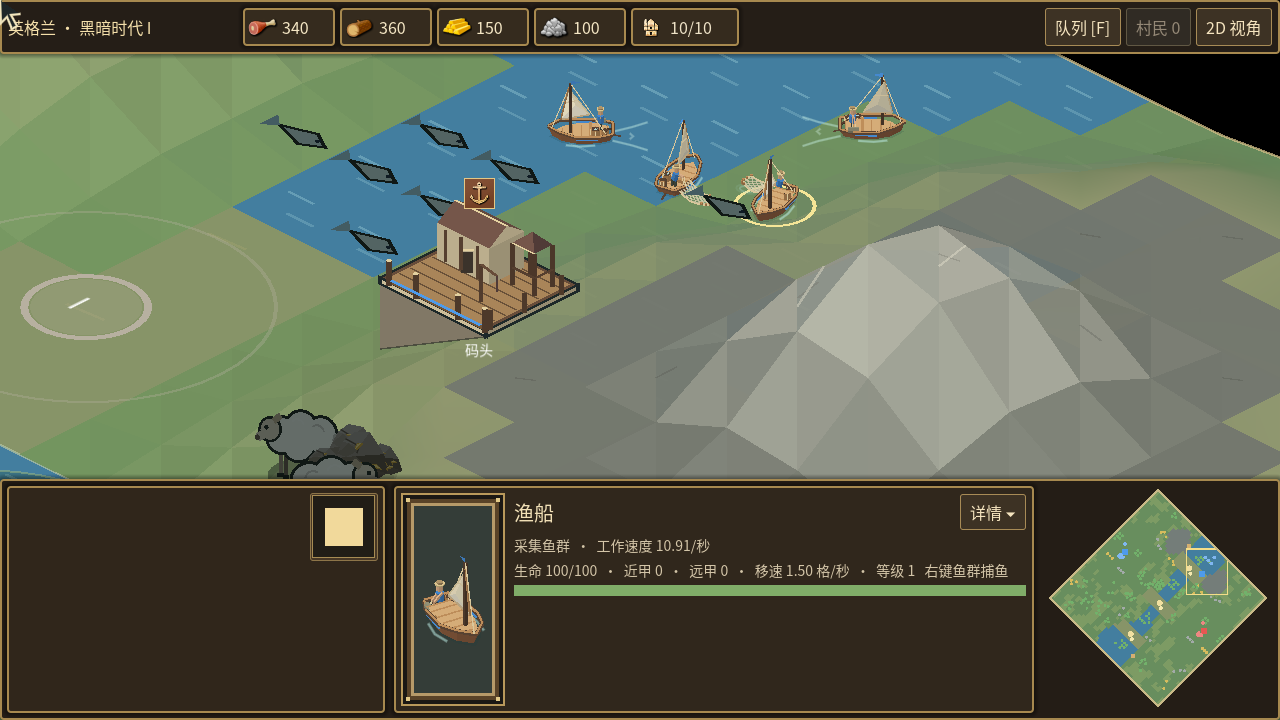
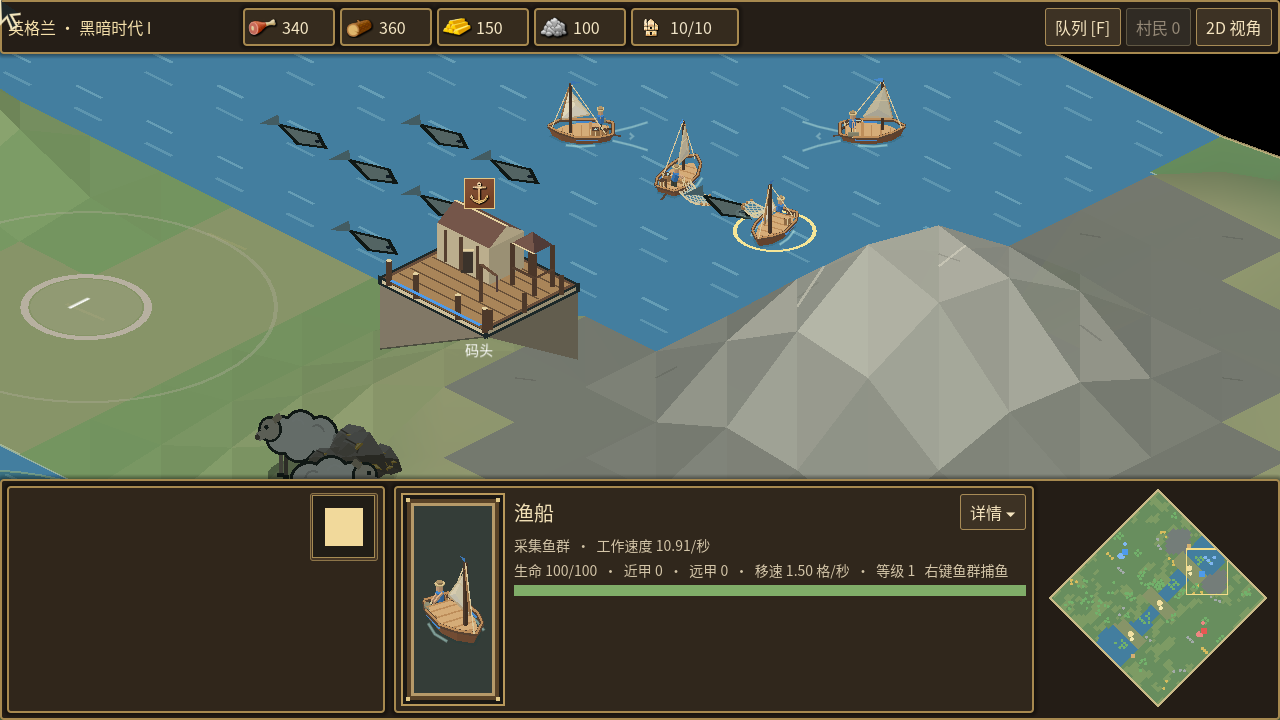
fix: keep mountain-adjacent water flat and preserve water rendering

Changed region(s): [[0.375, 0.1222, 0.9688, 0.5194], [0.0, 0.0611, 0.4062, 0.3056]]

diff --git a/docs/fishing-boat-refinement/README.md b/docs/fishing-boat-refinement/README.md
@@ -13,9 +13,13 @@
 
 捕鱼读取真实采集订单、鱼群余量、距离和工作计时器，短暂的采集动作结束后仍继续捕鱼循环。停船捕鱼时船体侧转，让右舷渔网朝向鱼群；航行方向与导航状态不受影响。袋状渔网使用菱形网格，随循环撒出、浸水、提起和收回，渔夫同时改变手臂姿态。驶向鱼群的船、正在移动的船和资源耗尽的船会收起渔网。头像使用稳定姿态，并按模型范围适配内框；单位预览增加“停泊／航行／捕鱼”和八方向选择。
 
+靠山的水格曾继承山坡高度，并被 2.5D 高地材质绘成草地，造成船和鱼看起来上岸。水格四角现在统一为零高度，邻接岸坡共用这些水线顶点；高地绘制也显式保留水域材质。游戏内截图使用修复后的同一种子和原有船位。
+
 ## 验证
 
 `tests/fishing_boat_rendering.gd` 使用生产渲染器验证 16 个投影／航向、8 个捕鱼目标方向、航行尾波和强制收网、4 个捕鱼阶段、3 种头像内框，以及 144 个单位预览尺寸／动作／方向组合。新增动作与方向控件在 150%、175%、200% 文字缩放下均不溢出。另检查真实单位快照的捕鱼连续性、移动／距离／余量／订单切换，以及可见未选中渔船的水纹动画和隐藏后的停止更新。
+
+`tests/water_surface_rendering.gd` 检查四种地图、三个种子的 2431 个水格和 207 处鱼群，并在两种视角采样种子 431 出错位置的水面像素，验证船、鱼与地图水位一致。
 
 像素检查需要带图形驱动的 Godot；`--headless` 不会生成可用于检查的船体纹理。
 
@@ -26,6 +30,7 @@ docs/godot/bin/godot.macos.template_debug.arm64 --path . --script tools/fishing_
 docs/godot/bin/godot.macos.template_debug.arm64 --path . --script tools/fishing_boat_preview.gd -- res://docs/fishing-boat-refinement portrait
 docs/godot/bin/godot.macos.template_debug.arm64 --path . --script tools/fishing_boat_game_preview.gd
 docs/godot/bin/godot.macos.template_debug.arm64 --path . --script tests/fishing_boat_rendering.gd
+docs/godot/bin/godot.macos.template_debug.arm64 --path . --script tests/water_surface_rendering.gd
 ```
 
 `before.png` 是改动前保存的基线；在新实现上运行 `before` 模式会覆盖该基线。
